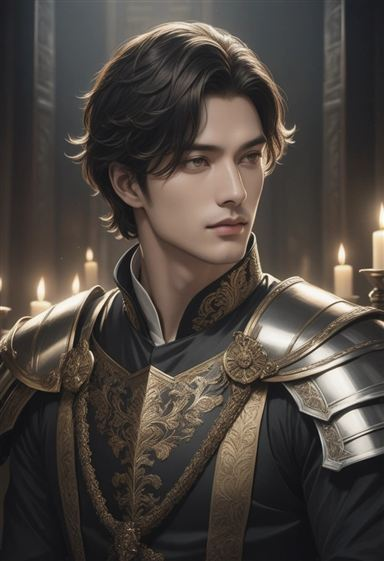
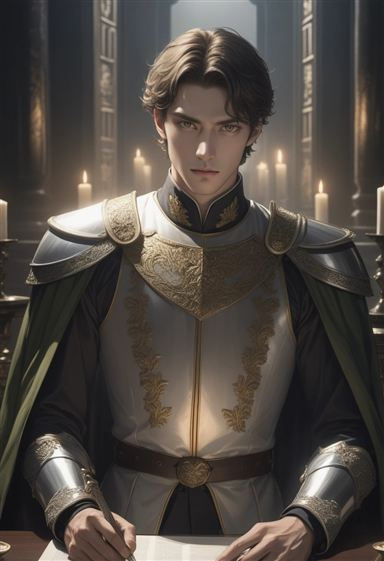
세계관 표지를 참고 표지 구조로: coverPrompt 상반신 포스터 구도 + 성별 앵커(여성 포함), 표지 화풍은 일상 화풍 + 조명(모델 YabaL로 통일), 표지 견본 6장 교체
- coverPrompt: "poster composition, upper body", 한쪽 성별만이면 (Ngirls:1.2)/(Nboys:1.2)와 성별 앵커, "group portrait, looking at viewer", "atmospheric background"(장면·배경 위주 전신 구도였던 것을 참고 표지처럼)
- fworld = 여성향 일상 태그 + 저조도·촛불·달빛, mworld = 남성향 일상 태그 + 림라이트·네온·무대 조명, 둘 다 YabaL
- 여성향·남성향 일상·애니·표지 6장씩 30장 생성해 참고와 비교(십절곡 여성 출연진이 남자로 그려지던 것도 해결)

diff --git a/index.html b/index.html
@@ -1935,10 +1935,10 @@ const BUILTIN_SETS = [
     prompt: "(anime key visual:1.3), (intricate details:1.3), extremely detailed, detailed lineart, sketchy brushwork, ink splatter, painterly highlights, cel shading, high contrast, vivid colors, dramatic lighting, glowing particles, light streaks, dark background, shiny hair, beautiful detailed eyes" },
   { id: "fworld", name: "프롬2 여성향 세계관", kind: "world", aud: "f", match: /프롬\s*2.*여성향|여성향.*(?:세계관|표지)/, model: YABAL, samples: 3,
     desc: "프롬2(여성향 세계관 표지) 11장 — 어둡고 로맨틱한 저조도 조명(촛불·달빛), 차분하고 깊은 색, 반실사 남성 인물. 여성향 작품의 표지·세계관 일러스트 기본값",
-    prompt: SEMI + ", cinematic cover illustration, (low-key lighting:1.2), dim lighting, candlelight, moonlight, dark romantic atmosphere, rich muted palette, intricate details, handsome, (bishounen:1.2), pretty boy, sharp jawline" },
-  { id: "mworld", name: "프롬3 남성향 세계관", kind: "world", aud: "m", match: /프롬\s*3.*남성향|남성향.*(?:세계관|표지)/, model: SEMI_L, samples: 3,
-    desc: "프롬3(남성향 세계관 표지) 11장 — 네온·무대 조명의 강한 림라이트, 선명한 채도와 윤기, 보케. 남성향 작품의 표지·세계관 일러스트 기본값",
-    prompt: SEMI + ", cinematic cover illustration, (dramatic rim lighting:1.2), neon lights, stage lighting, vivid saturated colors, glossy finish, bokeh, intricate details" }
+    prompt: SEMI.replace(SEMI_SKIN, "") + ", handsome, (bishounen:1.2), pretty boy, youthful, delicate facial features, pale smooth skin, sharp jawline, soft painterly shading, cinematic cover illustration, (low-key lighting:1.2), dim lighting, candlelight, moonlight, dark romantic atmosphere, rich muted palette" },
+  { id: "mworld", name: "프롬3 남성향 세계관", kind: "world", aud: "m", match: /프롬\s*3.*남성향|남성향.*(?:세계관|표지)/, model: YABAL, samples: 3,
+    desc: "프롬3(남성향 세계관 표지) 11장 — 남성향 일상과 같은 인물 화풍에 네온·무대 조명의 림라이트, 선명한 채도와 윤기, 보케. 남성향 작품의 표지·세계관 일러스트 기본값",
+    prompt: SEMI.replace(SEMI_SKIN, "") + ", (semi-realistic:1.2), korean beauty, (large eyes:1.1), soft gaze, glossy lips, natural makeup, smooth glossy skin, airbrushed, cinematic cover illustration, (dramatic rim lighting:1.2), neon lights, stage lighting, vivid saturated colors, glossy finish, bokeh" }
 ];
 const builtinSet = (id) => BUILTIN_SETS.find((b) => b.id === id) || null;
 /* 세트 이름이 내장 화풍 이름과 맞으면 그 id(ZIP 폴더 이름 프롬1_남성향_일상 …) */
@@ -4652,16 +4652,18 @@ function dropSitImages(n) {
 
 /* 표지 프롬프트: 세계관 작품은 주요 인물들이 모인 단체 표지, 1인 작품은 주인공 중심 */
 function coverPrompt(c) {
-  const cast = (c.cast || []).filter((x) => x.name), base = ["cinematic composition"]; // "cover art"는 제목 글자를 그려 넣어서 뺌
+  // 참고 표지(2026-11-04 사용자 ZIP)의 구조: 인물 상반신을 크게, 정면·시선, 배경은 분위기만 — "cover art"는 제목 글자를 그려 넣어서 뺌
+  const cast = (c.cast || []).filter((x) => x.name), base = ["poster composition", "upper body"];
   if (c.world_mode && cast.length > 1) {
     const pick = cast.slice(0, 3); // SDXL은 3명이 넘으면 얼굴·몸이 뭉개져서 앞의 3명만
     const f = pick.filter((x) => /여성|여자|\bfemale\b|\bgirl/i.test(x.look || "")).length, m = pick.filter((x) => /남성|남자|\bmale\b|\bboy/i.test(x.look || "")).length;
-    // 남자만 있는 표지는 인원 태그에 가중치 + 남성 앵커 — 반실사 모델(semILust)이 남자를 여자처럼 그리는 일이 잦음(2026-11-04 비교 생성)
-    const who = [f ? (f > 1 ? `${f}girls` : "1girl") : "", m ? (m > 1 ? (f ? `${m}boys` : `(${m}boys:1.2)`) : (f ? "1boy" : "(1boy:1.2)")) : "", m && !f ? "male focus, handsome men, masculine features" : ""].filter(Boolean).join(", ") || "multiple characters";
-    return [...base, who, "group shot", ...pick.map((x) => x.tags || x.look), c.oneLiner, "detailed background"].filter(Boolean).join(", ");
+    // 한쪽 성별만 있는 표지는 인원 태그에 가중치 + 성별 앵커 — 옷·머리 태그만 있으면 반실사 모델이 성별을 바꿔 그림(2026-11-04 비교 생성)
+    const who = [f ? (f > 1 ? (m ? `${f}girls` : `(${f}girls:1.2)`) : (m ? "1girl" : "(1girl:1.2)")) : "", m ? (m > 1 ? (f ? `${m}boys` : `(${m}boys:1.2)`) : (f ? "1boy" : "(1boy:1.2)")) : "",
+      m && !f ? "male focus, handsome men, masculine features" : f && !m ? "beautiful women, feminine" : ""].filter(Boolean).join(", ") || "multiple characters";
+    return [...base, who, "group portrait, looking at viewer", ...pick.map((x) => x.tags || x.look), c.oneLiner, "atmospheric background"].filter(Boolean).join(", ");
   }
-  const look = castLook(cast[0], c), who = lookIsMale(look) ? ["(1boy:1.2)", "male focus", "solo", "handsome man, masculine features"] : whoTags(look);
-  return [...base, ...who, (cast[0] && cast[0].tags) || look, "upper body, looking at viewer", c.oneLiner, "detailed background"].filter(Boolean).join(", ");
+  const look = castLook(cast[0], c), who = lookIsMale(look) ? ["(1boy:1.2)", "male focus", "solo", "handsome man, masculine features"] : ["(1girl:1.2)", "solo", "beautiful woman"];
+  return [...base, ...who, (cast[0] && cast[0].tags) || look, "looking at viewer", c.oneLiner, "atmospheric background"].filter(Boolean).join(", ");
 }
 /* 상황 번호(SIT 0~14) → 표정·자세 태그(Danbooru). 프롬프트 맨 앞(장면 자리)에 들어가야 모델이 따름 */
 const SIT_PONY_TAGS = [

diff --git a/src/js/images/prompt.js b/src/js/images/prompt.js
@@ -9,16 +9,18 @@ import { ponyTags } from "./tags.js";
 
 /* 표지 프롬프트: 세계관 작품은 주요 인물들이 모인 단체 표지, 1인 작품은 주인공 중심 */
 export function coverPrompt(c) {
-  const cast = (c.cast || []).filter((x) => x.name), base = ["cinematic composition"]; // "cover art"는 제목 글자를 그려 넣어서 뺌
+  // 참고 표지(2026-11-04 사용자 ZIP)의 구조: 인물 상반신을 크게, 정면·시선, 배경은 분위기만 — "cover art"는 제목 글자를 그려 넣어서 뺌
+  const cast = (c.cast || []).filter((x) => x.name), base = ["poster composition", "upper body"];
   if (c.world_mode && cast.length > 1) {
     const pick = cast.slice(0, 3); // SDXL은 3명이 넘으면 얼굴·몸이 뭉개져서 앞의 3명만
     const f = pick.filter((x) => /여성|여자|\bfemale\b|\bgirl/i.test(x.look || "")).length, m = pick.filter((x) => /남성|남자|\bmale\b|\bboy/i.test(x.look || "")).length;
-    // 남자만 있는 표지는 인원 태그에 가중치 + 남성 앵커 — 반실사 모델(semILust)이 남자를 여자처럼 그리는 일이 잦음(2026-11-04 비교 생성)
-    const who = [f ? (f > 1 ? `${f}girls` : "1girl") : "", m ? (m > 1 ? (f ? `${m}boys` : `(${m}boys:1.2)`) : (f ? "1boy" : "(1boy:1.2)")) : "", m && !f ? "male focus, handsome men, masculine features" : ""].filter(Boolean).join(", ") || "multiple characters";
-    return [...base, who, "group shot", ...pick.map((x) => x.tags || x.look), c.oneLiner, "detailed background"].filter(Boolean).join(", ");
+    // 한쪽 성별만 있는 표지는 인원 태그에 가중치 + 성별 앵커 — 옷·머리 태그만 있으면 반실사 모델이 성별을 바꿔 그림(2026-11-04 비교 생성)
+    const who = [f ? (f > 1 ? (m ? `${f}girls` : `(${f}girls:1.2)`) : (m ? "1girl" : "(1girl:1.2)")) : "", m ? (m > 1 ? (f ? `${m}boys` : `(${m}boys:1.2)`) : (f ? "1boy" : "(1boy:1.2)")) : "",
+      m && !f ? "male focus, handsome men, masculine features" : f && !m ? "beautiful women, feminine" : ""].filter(Boolean).join(", ") || "multiple characters";
+    return [...base, who, "group portrait, looking at viewer", ...pick.map((x) => x.tags || x.look), c.oneLiner, "atmospheric background"].filter(Boolean).join(", ");
   }
-  const look = castLook(cast[0], c), who = lookIsMale(look) ? ["(1boy:1.2)", "male focus", "solo", "handsome man, masculine features"] : whoTags(look);
-  return [...base, ...who, (cast[0] && cast[0].tags) || look, "upper body, looking at viewer", c.oneLiner, "detailed background"].filter(Boolean).join(", ");
+  const look = castLook(cast[0], c), who = lookIsMale(look) ? ["(1boy:1.2)", "male focus", "solo", "handsome man, masculine features"] : ["(1girl:1.2)", "solo", "beautiful woman"];
+  return [...base, ...who, (cast[0] && cast[0].tags) || look, "looking at viewer", c.oneLiner, "atmospheric background"].filter(Boolean).join(", ");
 }
 /* 상황 번호(SIT 0~14) → 표정·자세 태그(Danbooru). 프롬프트 맨 앞(장면 자리)에 들어가야 모델이 따름 */
 const SIT_PONY_TAGS = [

diff --git a/src/js/images/styles.js b/src/js/images/styles.js
@@ -52,10 +52,10 @@ export const BUILTIN_SETS = [
     prompt: "(anime key visual:1.3), (intricate details:1.3), extremely detailed, detailed lineart, sketchy brushwork, ink splatter, painterly highlights, cel shading, high contrast, vivid colors, dramatic lighting, glowing particles, light streaks, dark background, shiny hair, beautiful detailed eyes" },
   { id: "fworld", name: "프롬2 여성향 세계관", kind: "world", aud: "f", match: /프롬\s*2.*여성향|여성향.*(?:세계관|표지)/, model: YABAL, samples: 3,
     desc: "프롬2(여성향 세계관 표지) 11장 — 어둡고 로맨틱한 저조도 조명(촛불·달빛), 차분하고 깊은 색, 반실사 남성 인물. 여성향 작품의 표지·세계관 일러스트 기본값",
-    prompt: SEMI + ", cinematic cover illustration, (low-key lighting:1.2), dim lighting, candlelight, moonlight, dark romantic atmosphere, rich muted palette, intricate details, handsome, (bishounen:1.2), pretty boy, sharp jawline" },
-  { id: "mworld", name: "프롬3 남성향 세계관", kind: "world", aud: "m", match: /프롬\s*3.*남성향|남성향.*(?:세계관|표지)/, model: SEMI_L, samples: 3,
-    desc: "프롬3(남성향 세계관 표지) 11장 — 네온·무대 조명의 강한 림라이트, 선명한 채도와 윤기, 보케. 남성향 작품의 표지·세계관 일러스트 기본값",
-    prompt: SEMI + ", cinematic cover illustration, (dramatic rim lighting:1.2), neon lights, stage lighting, vivid saturated colors, glossy finish, bokeh, intricate details" }
+    prompt: SEMI.replace(SEMI_SKIN, "") + ", handsome, (bishounen:1.2), pretty boy, youthful, delicate facial features, pale smooth skin, sharp jawline, soft painterly shading, cinematic cover illustration, (low-key lighting:1.2), dim lighting, candlelight, moonlight, dark romantic atmosphere, rich muted palette" },
+  { id: "mworld", name: "프롬3 남성향 세계관", kind: "world", aud: "m", match: /프롬\s*3.*남성향|남성향.*(?:세계관|표지)/, model: YABAL, samples: 3,
+    desc: "프롬3(남성향 세계관 표지) 11장 — 남성향 일상과 같은 인물 화풍에 네온·무대 조명의 림라이트, 선명한 채도와 윤기, 보케. 남성향 작품의 표지·세계관 일러스트 기본값",
+    prompt: SEMI.replace(SEMI_SKIN, "") + ", (semi-realistic:1.2), korean beauty, (large eyes:1.1), soft gaze, glossy lips, natural makeup, smooth glossy skin, airbrushed, cinematic cover illustration, (dramatic rim lighting:1.2), neon lights, stage lighting, vivid saturated colors, glossy finish, bokeh" }
 ];
 export const builtinSet = (id) => BUILTIN_SETS.find((b) => b.id === id) || null;
 /* 세트 이름이 내장 화풍 이름과 맞으면 그 id(ZIP 폴더 이름 프롬1_남성향_일상 …) */

diff --git a/CLAUDE.md b/CLAUDE.md
@@ -51,7 +51,7 @@
 - 배포 확장: CFG(window.HEARTVERSE_CONFIG: anthropicUrl·runwareUrl·openRouterUrl·serverKeys)로 서버 프록시 연결. 키 확인은 hasClaudeKey()/hasRunwareKey()/hasOpenRouterKey(). 예상 못 한 오류는 reportError()가 기록·안내. 남은 과제와 결정 이유는 docs/ROADMAP.md, 상용화 구성·단계(로그인 → 서버 AI·하트 → 결제 → 운영)는 docs/COMMERCIALIZATION.md
 - 이미지 저장: IMG.put → assets가 있으면 /_blob/<id>, 없으면 shrink한 JPEG data URL을 KV에 넣고 kv:img… 로 참조(validRef로 검사)
 - AI 이미지 생성: Runware API + SDXL 계열 모델. IMG_MODELS = [{id(AIR), name, arch: "pony"|"illustrious", pos?, neg?, cfg?}] — 세미리얼 PonyXL(Run七八造 v2, civitai:548016@861939, cfg 6 + plastic skin·doll·airbrushed 네거티브 — CFG 7이면 인형처럼 인위적, 4.5면 표정을 안 따름. 2026-10 CyberRealistic Semi-Real·BigBlu 2.5D·Pony Asian Realism·Kawaii Realistic Asian과 비교해 사용자 참고 그림에 가장 가까워 유지)·한국 웹툰 PonyXL(ToonyStark, civitai:142601@686323)·애니 일러스트(WAI Illustrious v14, civitai:827184@1761560)·Pony Diffusion V6 XL(imagerouter:257749@290640 — Runware 자체 호스팅 ID, "civitai:" 형태는 failedModelLoad). 모두 2026-10 Runware 실제 생성 확인(장당 약 $0.0025). 모델 ID는 Runware modelSearch 작업(search·category·architecture)으로 찾음. 예전 ID는 BAD_IMG_MODELS로 로드 때 고침. 설정의 Runware API 키(S.settings.runwareKey, BYOK, localStorage에만)로 runwareImage() → Blob(IMG.put 그대로). 요청은 imageInference 한 건(taskUUID, 28 steps, CFG는 모델 cfg 또는 ARCH[arch].cfg, scheduler "Euler a"(Runware 문서 이름, 모르는 이름은 모델 기본값으로 바뀜), WEBP, outputType dataURI, checkNSFW — 모르는 엔드포인트면 한 번 빼고 재시도). Runware가 모델을 처음 불러올 때 가끔 failedModelLoad → 새 taskUUID로 한 번 재시도. 비율 RW_SIZES(4:5·3:4 832×1216, 1:1 1024², 16:9 1216×832). 생성 창은 genImageSheet({prompt | parts}): 프롬프트를 묶음별 태그 칩으로 보여 줌(칩을 누르면 ★강조 → "(태그:1.3)", ×빼기, 묶음마다 한국어·영어로 더하기, '추가' 묶음은 장면 바로 다음). 그림체·품질·수위·금지 태그는 숨기고 '자동으로 붙는 태그' 접기에 이름만. 로컬 파일 모드용. Runware는 lora:[{model, weight}]·ipAdapters:[{model, guideImages, weight}](SDXL Plus runware:55@2)도 받지만, IP-Adapter는 참고 그림의 옷·배경·자세까지 베껴서 쓰지 않음
-- 이미지 프롬프트: Danbooru 영문 태그. 앞에 ARCH[arch].pos(pony: score_9…, illustrious: masterpiece, best quality, amazing quality…) + 수위 태그(pony RATINGS[수위].pos, illustrious RATINGS[수위].ill — rating 태그 하나만: nsfw·adult·mature를 겹치면 모델이 표정·외모보다 노출 쪽으로 끌려가 다른 인물처럼 그림) + 모델 pos, 네거티브는 ARCH[arch].neg + 모델 neg + IMG_NEG(규격) + NEG_MINOR(child·loli·shota… 수위와 상관없이 고정) + RATINGS[수위].neg. 수위는 imgRating(want = "safe"): ageOK()가 아니면 항상 safe. **AI 자동 생성은 기본 전체이용가**(사용자 결정 2026-11): 이미지 슬롯은 slotRating — 직접 만든 칸(sitDef)은 그 칸의 rating(19금 칸만 성인 태그), 기본 칸 0~14는 sheetRatings[c.id](기본 safe) — AI 버튼·빈 칸 채우기 모두. 세계관 일러스트는 sheetRatings["w:"+c.id](기본 safe), 표지·페르소나는 safe, 생성 창 #grt로 한 번만 바꿈. 시트 수위 칸은 ratingFieldHTML(성인 확인 전·IN_CLAUDE면 전체이용가로 잠그고 이유를 보여 줌). 설정의 '이미지 기본 수위'(adultImgRating)는 없앰 — 로드 때 imgSafeDefault 플래그가 없으면 adultImgRating과 sheetRatings를 한 번 비움. safe만 checkNSFW, 성인 수위면 프롬프트·번역 태그에 minorHint가 있으면 {code:"minor_block"}로 보내지 않음. **순서가 중요**: 품질·수위 → 내용(장면·표정 → 인물 → 배경) → 그림체(imgStyleText, runwareImage가 뒤에 붙임). 장면 태그가 그림체·외모 뒤에 있으면 표정이 무시됨(2026-11 비교 생성). 상황 태그 SIT_PONY_TAGS(SIT 0~14, Danbooru 표정 태그), 슬롯은 slotParts(장면·인물·배경 묶음)/buildPonyPrompt — 인물 묶음 앞은 whoTags(외모): 남자면 1boy, male focus, solo(Pony 계열은 male focus가 없으면 여자로 그림), 사람 낱말(HUMAN_RE) 없이 동물(ANIMAL_RE)만 있으면 no humans, animal focus, 그 밖은 1girl, solo. 싸우는 칸(COMBAT_SITS 0·9·12·13)이 아니면 외모에서 무기(WEAPON_RE)를 뺌. 프롬프트에 "(태그:숫자)"가 있으면 promptWeighting: "sdEmbeds". 외모는 castLook(출연진 외모, 비었거나 주인공 외모에 성별이 없으면 설정의 "이름(나이, 성별)"·"외모:"). 출연진에 영문 태그 tags(1:1 작품은 맨 위 lookTags → content/index.js가 cast[0].tags로, 스튜디오는 코드|이름|외모|태그 4번째 칸)가 있으면 slotParts·coverPrompt의 인물 묶음에 번역 없이 그대로 씀(2026-11-03, 오리지널 12작품 출연진 43명 전부 큐레이션 — 같은 인물이 매번 같은 생김새로; 성별·인원 whoTags는 여전히 한국어 look으로, 빌드가 tags에 한글이 있으면 실패). 키워드북 항목의 tags(선택)는 lorePrompt가 text 대신 씀. coverPrompt(world_mode면 앞의 3명만 Ngirls·group shot — SDXL은 3명이 넘으면 뭉개짐, "cover art"는 제목 글자를 그려서 안 씀), lorePrompt(scenery). 대상별 보정(runwareImage): imgSubject(번역된 태그)가 male(남자만)이면 그림체에서 makeup·lips·glamorous 등을 빼고 male focus를 보태고 네거티브에 1girl·female·breasts·makeup, none(no humans — 동물·식물·풍경)이면 그림체에서 피부·눈·얼굴·머리 태그와 수위의 adult·mature를 빼고 네거티브에 1girl·1boy·human·person·anthro. fixSubject가 중복(★강조판 우선)을 빼고, 사람이 있으면 no humans·animal focus를, boy 태그가 없으면 male focus를 뺌(번역에 딸려 옴). 빈 칸 채우기는 partsTags(savedParts, 성인 여부)로 묶음별 번역 후 runwareImage. 인물별 태그 저장(사용자 요청 2026-11): 슬롯의 AI 버튼은 genImageSheet({parts: savedParts(c, cast, i), save: {c, cast, i}})로 열고, 생성 창의 '이 인물에 태그 저장'(saveCastTags)·'기본값으로'(clearCastTags)가 S.tagpacks[작품 id][인물 코드] = {look, sits: {칸: {scene, extra, bg}}}(KV "tagpacks")에 기본 태그와의 차이 {add, del, strong}만 저장 — 인물(look)은 그 인물의 모든 칸에, 장면·추가·배경은 그 칸에만. savedParts가 slotParts에 차이를 입히고 '추가' 묶음을 넣음(태그는 {t, strong}). 번역은 groupsPrompt(생성 창·빈 칸 채우기 공통, ★강조는 (태그:1.3)). 프롬프트 복사(buildPonyPrompt)도 저장 태그를 씀. 칸 정의(customSits)는 지금처럼 모든 인물 공통. 그림 입력(참고 그림·인물 참고)은 없음 — 같은 인물은 외모 태그로 맞춤
+- 이미지 프롬프트: Danbooru 영문 태그. 앞에 ARCH[arch].pos(pony: score_9…, illustrious: masterpiece, best quality, amazing quality…) + 수위 태그(pony RATINGS[수위].pos, illustrious RATINGS[수위].ill — rating 태그 하나만: nsfw·adult·mature를 겹치면 모델이 표정·외모보다 노출 쪽으로 끌려가 다른 인물처럼 그림) + 모델 pos, 네거티브는 ARCH[arch].neg + 모델 neg + IMG_NEG(규격) + NEG_MINOR(child·loli·shota… 수위와 상관없이 고정) + RATINGS[수위].neg. 수위는 imgRating(want = "safe"): ageOK()가 아니면 항상 safe. **AI 자동 생성은 기본 전체이용가**(사용자 결정 2026-11): 이미지 슬롯은 slotRating — 직접 만든 칸(sitDef)은 그 칸의 rating(19금 칸만 성인 태그), 기본 칸 0~14는 sheetRatings[c.id](기본 safe) — AI 버튼·빈 칸 채우기 모두. 세계관 일러스트는 sheetRatings["w:"+c.id](기본 safe), 표지·페르소나는 safe, 생성 창 #grt로 한 번만 바꿈. 시트 수위 칸은 ratingFieldHTML(성인 확인 전·IN_CLAUDE면 전체이용가로 잠그고 이유를 보여 줌). 설정의 '이미지 기본 수위'(adultImgRating)는 없앰 — 로드 때 imgSafeDefault 플래그가 없으면 adultImgRating과 sheetRatings를 한 번 비움. safe만 checkNSFW, 성인 수위면 프롬프트·번역 태그에 minorHint가 있으면 {code:"minor_block"}로 보내지 않음. **순서가 중요**: 품질·수위 → 내용(장면·표정 → 인물 → 배경) → 그림체(imgStyleText, runwareImage가 뒤에 붙임). 장면 태그가 그림체·외모 뒤에 있으면 표정이 무시됨(2026-11 비교 생성). 상황 태그 SIT_PONY_TAGS(SIT 0~14, Danbooru 표정 태그), 슬롯은 slotParts(장면·인물·배경 묶음)/buildPonyPrompt — 인물 묶음 앞은 whoTags(외모): 남자면 1boy, male focus, solo(Pony 계열은 male focus가 없으면 여자로 그림), 사람 낱말(HUMAN_RE) 없이 동물(ANIMAL_RE)만 있으면 no humans, animal focus, 그 밖은 1girl, solo. 싸우는 칸(COMBAT_SITS 0·9·12·13)이 아니면 외모에서 무기(WEAPON_RE)를 뺌. 프롬프트에 "(태그:숫자)"가 있으면 promptWeighting: "sdEmbeds". 외모는 castLook(출연진 외모, 비었거나 주인공 외모에 성별이 없으면 설정의 "이름(나이, 성별)"·"외모:"). 출연진에 영문 태그 tags(1:1 작품은 맨 위 lookTags → content/index.js가 cast[0].tags로, 스튜디오는 코드|이름|외모|태그 4번째 칸)가 있으면 slotParts·coverPrompt의 인물 묶음에 번역 없이 그대로 씀(2026-11-03, 오리지널 12작품 출연진 43명 전부 큐레이션 — 같은 인물이 매번 같은 생김새로; 성별·인원 whoTags는 여전히 한국어 look으로, 빌드가 tags에 한글이 있으면 실패). 키워드북 항목의 tags(선택)는 lorePrompt가 text 대신 씀. coverPrompt(2026-11-04 참고 표지 구조로: "poster composition, upper body" + 한쪽 성별만이면 (Ngirls:1.2)/(Nboys:1.2)와 성별 앵커(beautiful women, feminine / male focus, handsome men, masculine features) + "group portrait, looking at viewer" + "atmospheric background"; world_mode면 앞의 3명만 — SDXL은 3명이 넘으면 뭉개짐, "cover art"는 제목 글자를 그려서 안 씀. 표지 화풍(fworld·mworld)은 같은 성향의 일상 화풍 태그 + 표지 조명 태그, 모델도 YabaL로 통일), lorePrompt(scenery). 대상별 보정(runwareImage): imgSubject(번역된 태그)가 male(남자만)이면 그림체에서 makeup·lips·glamorous 등을 빼고 male focus를 보태고 네거티브에 1girl·female·breasts·makeup, none(no humans — 동물·식물·풍경)이면 그림체에서 피부·눈·얼굴·머리 태그와 수위의 adult·mature를 빼고 네거티브에 1girl·1boy·human·person·anthro. fixSubject가 중복(★강조판 우선)을 빼고, 사람이 있으면 no humans·animal focus를, boy 태그가 없으면 male focus를 뺌(번역에 딸려 옴). 빈 칸 채우기는 partsTags(savedParts, 성인 여부)로 묶음별 번역 후 runwareImage. 인물별 태그 저장(사용자 요청 2026-11): 슬롯의 AI 버튼은 genImageSheet({parts: savedParts(c, cast, i), save: {c, cast, i}})로 열고, 생성 창의 '이 인물에 태그 저장'(saveCastTags)·'기본값으로'(clearCastTags)가 S.tagpacks[작품 id][인물 코드] = {look, sits: {칸: {scene, extra, bg}}}(KV "tagpacks")에 기본 태그와의 차이 {add, del, strong}만 저장 — 인물(look)은 그 인물의 모든 칸에, 장면·추가·배경은 그 칸에만. savedParts가 slotParts에 차이를 입히고 '추가' 묶음을 넣음(태그는 {t, strong}). 번역은 groupsPrompt(생성 창·빈 칸 채우기 공통, ★강조는 (태그:1.3)). 프롬프트 복사(buildPonyPrompt)도 저장 태그를 씀. 칸 정의(customSits)는 지금처럼 모든 인물 공통. 그림 입력(참고 그림·인물 참고)은 없음 — 같은 인물은 외모 태그로 맞춤
 - 한글 → 태그: 모델은 영문 태그만 알아들음(한국어 그대로는 안 됨, '외국풍'은 언어가 아니라 모델 탓). ponyTags()가 프롬프트를 쉼표로 나눠 영문 조각은 그대로, 한글이 든 조각만 koTags()로 번역하고 TAGS(KV "ponytags", 최대 300)에 캐시. 지시는 첫 메시지(시스템), 번역할 글은 두 번째 유저 메시지 — 한 메시지에 넣으면 OpenRouter 모델이 엉뚱한 글을 씀. 번역 순서: 일반은 Claude(llm quick) → 빈 답·한글이 섞인 답·실패면 OR_TAG_MODELS(DeepSeek V3 → UnslopNemo 12B, temperature 0.2), 성인 수위는 처음부터 OR_TAG_MODELS(Claude를 거치지 않음) → 그것도 안 되면 한글 낱말만 빼고 보냄. Hermes 3·라이트 모델은 없는 머리색·male focus 등을 지어내서 번역에 쓰지 않음. 결과는 밑줄을 띄어쓰기로, 40자 넘거나 영문 태그 글자가 아닌 조각은 뺌. 인물(외모) 묶음은 수위와 상관없이 일반 번역(genImageSheet buildPrompt·partsTags) — 수위마다 번역이 달라 머리색·옷이 바뀌던 문제. 원문에 없는 표정·감정 태그는 덧붙이지 않고, 성별을 알 수 있는 인물이면 1girl·1boy 같은 인원·성별 태그(남자만이면 male focus), 사람이 전혀 없으면 no humans를 넣게 지시(캐시 키 "4|" 접두사 — 예전 번역은 안 씀). 결과는 중복·young/teen/petite 등 어려 보이게 하는 태그를 빼고 24개까지. 성인 수위 그림이고 OpenRouter 키가 있으면 처음부터 OpenRouter로 번역하고 캐시 키 앞에 "A:"
 - **기본 화풍(2026-11-03, 사용자가 준 참고 그림 ZIP 59장 — 프롬1 남성향 일상 14·여성향 일상 10, 프롬2 남성향 애니 13·여성향 세계관 표지 11, 프롬3 남성향 세계관 표지 11)**: images/styles.js BUILTIN_SETS 5개 {id(mdaily·fdaily·manime·fworld·mworld), name, kind(daily·world·anime), aud, match(ZIP 세트 이름 정규식), model, desc, prompt, samples}. 네 묶음(일상 둘·표지 둘)은 같은 한국 반실사 2.5D 계열이라 공통 중간값 SEMI(korean, semi-realistic, 2.5d, glossy hair, soft skin shading, cinematic lighting …)에 묶음마다 조명·색·마무리만 더함(남성향 일상 (semi-realistic:1.2)·(large eyes:1.1)·smooth glossy skin·airbrushed(realistic skin texture 뺌, 2026-11-04 재조정 — 'idol-like'는 무대 조명을 끌어와 뺌), 여성향 일상 (bishounen:1.2)·pretty boy·pale smooth skin·manhwa(realistic skin texture는 뺌), 여성향 표지 (low-key lighting:1.2)·candlelight·moonlight + (bishounen:1.2)·pretty boy(semILust가 옷·머리 태그만 있는 남자를 여자로 그려서 — coverPrompt도 남자만 있는 표지엔 (1boy:1.2)·male focus·handsome men·masculine features를 넣고, personaWho가 "(외견 28세, …, 남)" 꼴도 읽음, 2026-11-04), 남성향 표지 (dramatic rim lighting:1.2)·neon·stage·vivid), 애니는 Hassaku XL v2.1(civitai:140272@1617798, Illustrious — 2026-11-04 WAI·Nova Anime·Nova Orange·Illustrious 2.0·Mistoon과 세밀 태그로 재비교) + (anime key visual:1.3)·(intricate details:1.3)·sketchy brushwork·ink splatter·dark background('lightning'은 모든 그림을 번개로 덮어 뺌). **모델은 비교 생성으로 정함(2026-11-03, 브라우저 패널의 localhost:5173 앱 안에서 사용자 키로 6라운드 66장 — 하네스는 세션 scratchpad의 tune.js·recv.mjs)**: 남성향 표지는 semILust v2(civitai:1160480@1449034, Illustrious, IMG_MODELS에 추가), 남성향 일상(2026-11-04 YabaL + v3 태그 4행 비교로 옮김)과 여성향 두 묶음은 YabaL Mix 2.5D XL(civitai:959624@1074388, sdxl — ARCH.sdxl 품질 태그 추가; 2026-11-04 체크포인트 19종 추가 비교에서 참고 그림의 부드러운 꽃미남에 가장 가깝고 남자를 여자로 그리지 않음, myzy Korean XL이 그다음) — 예전 기본 Run七八造는 붓 자국이 보이는 일러스트, CyberRealistic Semi-Real은 만화풍, hPonyRealism·DTFMix·CyberIllustrious는 사진처럼, Zyntoon은 애니 쪽, HoJ는 광택이 과해서 뺌. 애니는 Hassaku XL과 비슷했고 WAI가 참고 그림의 어두운 배경·강한 대비에 더 가까움. 그림체 문구의 "(태그:1.2)"도 promptWeighting sdEmbeds를 켬(runwareImage가 내용+그림체를 함께 검사). 참고 그림 자체는 외부 서비스 화면(제목·UI 포함)이라 저장소·배포물에 넣지 않고 프롬프트·모델과 우리가 만든 견본(styles/<id>-1~3.jpg 384px, samples 수만큼 — 없는 파일을 가리키면 404라 수를 맞춰 적음; claude.ai publish 때 icons/처럼 files로 함께)만 둠. **설정 기본값 imgStyle "auto"**(로드 때 예전 기본값 webtoon을 쓰던 설정은 styleV3 플래그로 한 번 auto로): styleFor(ctx) 하나가 그림체 {id, name, prompt, model}를 정함 — auto면 autoSetId(ctx)(kind world → 성향별 표지 화풍, daily → 작품 성향(audOf), 전체면 인물 성별(lookIsMale)로 mdaily/fdaily; 애니는 자동으로 안 고름), "sys:<id>"면 그 내장, "set:<id>"면 세트, 그 밖은 프리셋·직접 입력. runwareImage({style})·genImageSheet({ctx})가 받고 슬롯·대화 중 자동 생성·세계관 일러스트·스튜디오 표지·페르소나·연결 테스트가 ctx를 넘김. imgStyleText/imgModelId/styleLabel은 styleFor()의 껍데기. **덮어쓰기·복원**: 사용자가 ZIP으로 세트를 올리면 groupStyleFiles가 이름 앞부분(프롬1_남성향_일상1 → 프롬1_남성향_일상)별로 한 세트(그림 SET_REFS 8장까지)로 묶고, matchBuiltin(name)이 맞는 내장 화풍이 있으면 set.overrides = id(같은 화풍을 덮던 예전 세트는 풂, imgStyle은 auto 그대로) — effectiveSet(id)가 덮는 세트의 문구·모델을 쓰고, 세트를 지우거나 '내장으로 되돌리기'(data-bres)·세트 카드의 '덮어쓸 기본 화풍' select(data-sover, '없음')로 풀면 내장으로 돌아옴. 세트를 지울 때 그 세트를 쓰고 있었으면 auto로. 설정 그림체 select: auto → sys:5개('(내 세트로 덮음)' 표시) → 프리셋 → 세트; 내장을 고르면 문구는 읽기만. 흐름 시험 tests/e2e/styles.mjs. 비교 생성·가중치 조절은 Runware 키가 있는 브라우저에서(사용자 키)
 - 그림체 프리셋(IMG_STYLES: {name, desc, model, tags} — 한국 웹툰 · 세미리얼(webtoon)·성인 웹툰 · 글래머·한국 웹툰 · 선화·애니 일러스트·동양 판타지·직접 입력). 이름·설명은 한국어, tags는 그림체만(인물·구도·배경 태그를 넣으면 모든 그림이 끌려감). 프리셋은 모델도 정함. runwareImage가 모든 생성 프롬프트의 내용 뒤에 자동으로 붙임(호출하는 쪽 프롬프트에는 넣지 않음). 직접 입력은 한국어로 써도 됨(번역됨). 로드 때 예전 이름(novel·none → webtoon)을 바꾸고, 예전 geminiKey·styleRefs는 정리
